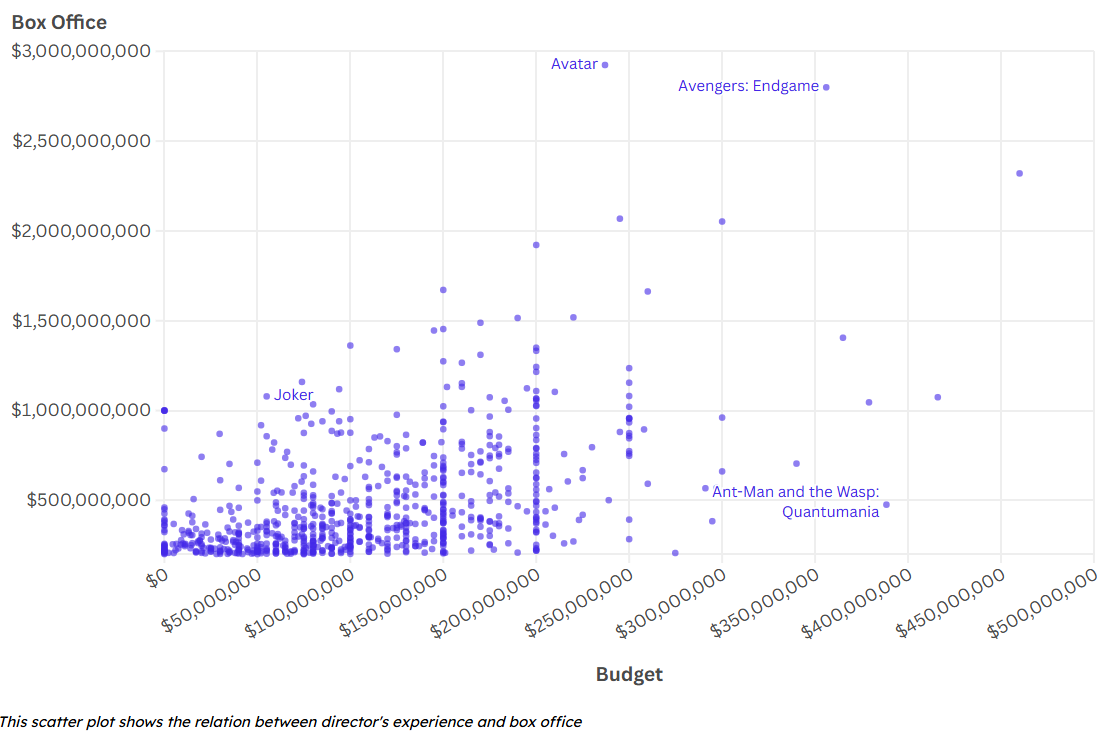
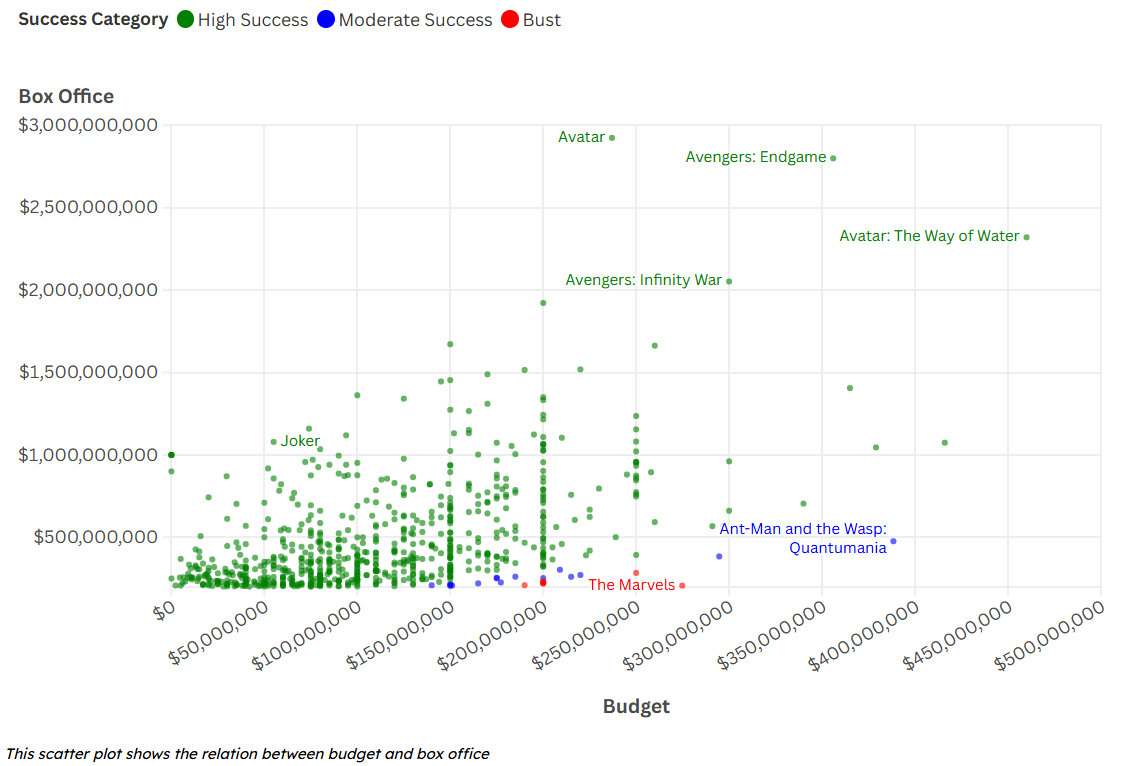
changed vis

diff --git a/src/pages/HomePage.tsx b/src/pages/HomePage.tsx
@@ -78,7 +78,7 @@ const HomePage = () => {
       id:"vis4",
       title: "Budget vs Box Office",
       subtitle: "Correlation Between Budget and Box Office",
-      text: "There is a positive correlation between a movie's budget and its box office revenue, indicating that higher-budget films generally earn more. However, the variability within this trend highlights the inherent risks and the potential for lower-budget films to achieve substantial success if they resonate well with audiences.",
+      text: "Movies with lower budgets (less than $100M) dominate the High Success category, often achieving impressive ROI due to their smaller initial investments. Moderate-budget films ($150M–$300M) tend to break even or turn modest profits but rarely deliver exceptional ROI, as illustrated by titles like Ant-Man and the Wasp: Quantumania. High-budget films come with greater financial risk, though some notable exceptions, such as Avatar and Avengers: Endgame, manage to achieve both high revenue and strong ROI. Additionally, films like Joker highlight the potential for low-budget projects to generate significant financial success when paired with compelling storytelling and effective marketing strategies.",
       caption:"This scatter plot shows the relation between budget and box office",
       visualization: (
         <iframe

diff --git a/README.md b/README.md
@@ -59,6 +59,9 @@ df['release_year'] = df['release_date'].dt.year
 df = df[(df['release_year'] >= 2000) & (df['release_year'] <= 2023)]
 df = df[(df['budget'] != 0) | (df['revenue'] != 0)]
 
+# Remove rows where budget is 0.0
+df = df[df['budget'] != 0.0]
+
 # Remove rows where runtime is 0.0
 df = df[df['runtime'] != 0.0]
 ```
@@ -101,7 +104,7 @@ High-earning genres like Action, Adventure, and Family consistently bring in lar
 
 **Budget Influence on Box Office**
 
-There is a positive correlation between a movie's budget and its box office revenue, indicating that higher-budget films generally earn more. However, the variability within this trend highlights the inherent risks and the potential for lower-budget films to achieve substantial success if they resonate well with audiences.
+Movies with lower budgets (less than $100M) dominate the High Success category, often achieving impressive ROI due to their smaller initial investments. Moderate-budget films ($150M–$300M) tend to break even or turn modest profits but rarely deliver exceptional ROI, as illustrated by titles like Ant-Man and the Wasp: Quantumania. High-budget films come with greater financial risk, though some notable exceptions, such as Avatar and Avengers: Endgame, manage to achieve both high revenue and strong ROI. Additionally, films like Joker highlight the potential for low-budget projects to generate significant financial success when paired with compelling storytelling and effective marketing strategies.
 
 **Recommendations for producers**
 
@@ -109,7 +112,7 @@ There is a positive correlation between a movie's budget and its box office reve
 
 •	Prioritize producing movies in Adventure, Action, Animation, Comedy, and Drama genres, as these have consistently generated high box office returns. Collaborate with top-performing directors within these genres to leverage their successful track records.
 
-•	Investing heavily in a movie's budget can significantly boost its box office potential. However, historical data shows that higher budgets don't always guarantee success, as other factors like marketing and audience reception also play crucial roles. 
+•	To maximize profitability, producers and investors should prioritize low-to-mid-budget films, as these consistently deliver strong returns. High-budget projects should be approached with caution and focus on established franchises or concepts with proven audience appeal to reduce financial risk. For smaller-budget films, leveraging creative storytelling and innovative marketing can lead to standout successes with exceptional profitability.
 
 
 ## Next steps
